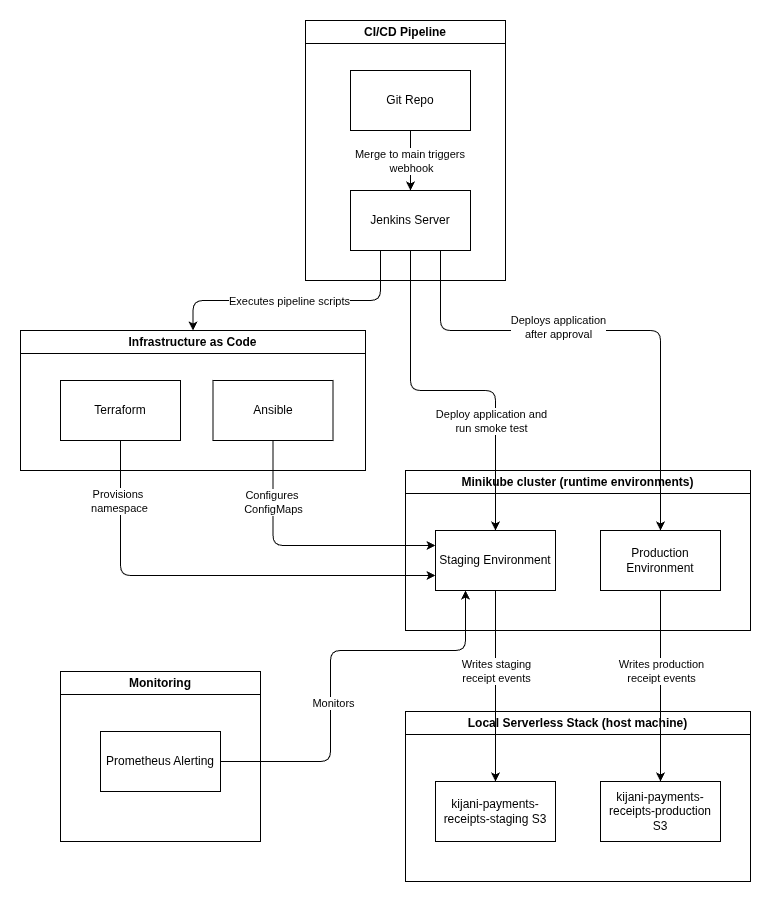
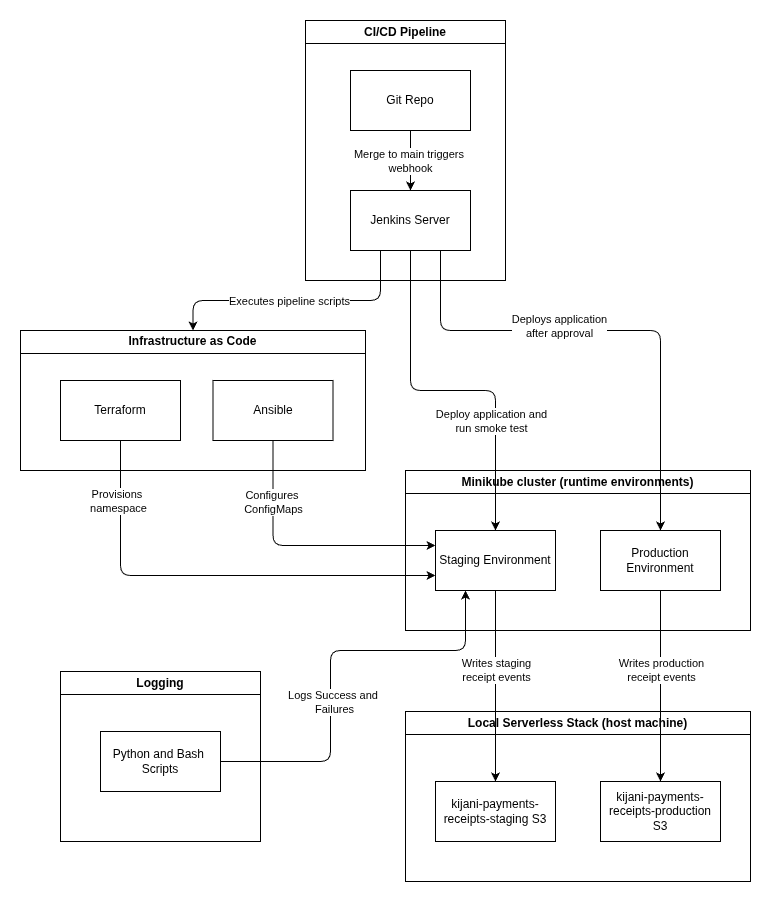
docs: updated scope, architecture, test-plan, README according to feedback

diff --git a/kijani-capstone/docs/scope.md b/kijani-capstone/docs/scope.md
@@ -1,26 +1,32 @@
-# Capstone Scope Doument
+# Capstone Scope Document
 
 ## Problem Statement
-The `kk-payments` microservice currently deploys to a single default namespace on a local minikube cluster. There is not isolated staging environment, meaning that code changes cannot be safely validated against production-like environment before release. When a bad image tag is pushed, it deploys directly to the primary environment, and rollback requires manual intervention.
+The `kk-payments` microservice runs on a local Minikube cluster. Without a staging environment, changes are harder to validate before production deployment. This capstone separates staging from production using Kubernetes namespaces and a Jenkins pipeline, and adds a staging health check, approval gate, rollback attempt on staging failure, and log-based receipt error-rate report.
 
 ## Track
 Track A (Infrastructure first)
 
 ## What I will build
-- Terraform configuration to provision an isolated `kijani-staging` kubernetes namespace.
-- Ansible playbook to configure environment specific ConfigMaps (`like DB_Host`)to separate code and configuration.
-- Jenkins CI/CD pipeline to automate a staging deployment on a merge to `main`, run a smoke test against the health endpoint, and pause at a production approval gate.
-- Prometheus alert rule configured to fire when the `kk-payments` error rate exceeds 5% for 2 minutes.
-- Integration connecting the `kk-payments` staging deployment to the `kk-payments-receipts-staging` S3 bucket to trigger the serverless receipt chain.
+- Terraform configuration to provision the `kijani-staging` Kubernetes namespace.
+- Ansible playbooks and environment variables to configure staging and production ConfigMaps and Secrets.
+- A Jenkins Pipeline job that reads `kijani-capstone/Jenkinsfile`, deploys changes to staging, and runs a health-check smoke test.
+- A production approval gate so production deployment only proceeds after staging checks pass and an administrator approves.
+- Jenkins failure handling that attempts to roll back a failed staging deployment or smoke test when a previous Deployment revision exists.
+- Structured request logs and a script that reports the staging receipt HTTP 5xx rate over the last two minutes against the Week 7 target of fewer than 0.1%.
+- A staging-only synthetic traffic endpoint and helper script to exercise and verify request logging.
+- Integration between the staging `kk-payments` deployment and a local Serverless/S3 simulator for receipt processing.
 
 ## What Is Out Of Scope
-- Multi cluster kubernetes architecture (excluded because both staging and production will run on the same local minikube cluster to conserve system resources).
-- Application code feature development (excluded because the focus is strictly on extending the infrastructure delivery pipeline).
+- Multi-cluster Kubernetes architecture; staging and production use namespaces on one local Minikube cluster.
+- Prometheus alerting and continuous alert notifications; monitoring is currently a manually run, two-minute log report, not a rolling 30-day SLO calculation.
+- Production AWS S3/Lambda infrastructure; the receipt chain uses local simulators.
+- Production-grade secret management, durable centralized log storage, and external alert delivery.
 
 ## Success Criteria
-1. A push to main triggers staging deployment automatically.
-2. The production gate requires explicit approval and shows the staging health check result.
-3. A deliberately introduced bad image triggers an automated rollback in staging before reaching prodcution.
+1. A reviewer can manually start the Jenkins job and observe IaC checks, staging configuration, deployment, and the health smoke test.
+2. The pipeline waits for explicit administrator approval before deploying to production.
+3. If staging deployment or its smoke test fails after a prior successful Deployment exists, Jenkins attempts to roll back and the pipeline does not proceed to production.
+4. A staging receipt request is processed by the local Serverless/S3 simulator, and the log report summarizes the receipt 5xx rate when receipt request logs are available.
 
 ## Architecture Diagram
 ![Architecture Diagram](architecture.png)

diff --git a/kijani-capstone/docs/test-plan.md b/kijani-capstone/docs/test-plan.md
@@ -4,14 +4,48 @@ This plan describes checks for the current Minikube, Jenkins, local Serverless,
 and log-based monitoring setup. Run destructive or production deployment tests
 only when explicitly intended.
 
+## Reviewer run-through
+
+1. **Fresh setup:** From a fresh clone, follow the [capstone README](../README.md)
+   setup instructions, then continue with the checks below. Note any step that
+   needs undocumented help.
+2. **Happy path:** Open the `kijani-capstone-main` job in Jenkins and select
+   **Build Now**. Observe staging deployment and the approval gate; approve
+   production only in the local test environment. Verify health and receipt
+   handling in Tests 1 and 2.
+3. **Failure and recovery (staging only):** Stop the local Serverless process
+   with `Ctrl-C`, then repeat the receipt request in Test 2 with a new order ID.
+   Expect HTTP 502 with `Receipt service is unavailable` and an upstream error
+   in the app logs. Restart the Serverless command from Test 2, retry with a
+   fresh order ID, and confirm receipt handling recovers.
+4. **AI governance:** Read the [AI governance log](ai-governance-log.md) and
+   comment on whether its human review steps are specific and credible.
+
 ## Prerequisites
 
 - Minikube is running with ingress enabled.
 - `kubectl` is using the intended Minikube context.
-- The `kijani-staging` namespace and staging app configuration exist.
+- Terraform and Ansible are installed, and Ansible has the `kubernetes.core`
+  collection (see the capstone README prerequisites).
+- From the repository root, create the staging namespace and app configuration:
+
+  ```bash
+  cd kijani-capstone/terraform
+  terraform init
+  terraform apply
+
+  cd ../ansible
+  ansible-playbook -i inventory/hosts.ini playbook.yml -e @vars/staging.yml
+  ```
+
+- Map the staging hostname to Minikube's IP (run on the Minikube host):
+
+  ```bash
+  echo "$(minikube ip) staging.kijani.local" | sudo tee -a /etc/hosts
+  ```
+
 - The staging app is running the updated image with structured request logs
   and the staging-only `/simulate-traffic` route.
-- Host DNS maps `staging.kijani.local` to the Minikube IP.
 
 ## 1. Staging deployment and health check
 
@@ -59,13 +93,19 @@ only when explicitly intended.
      -d '{"orderId":"TEST-RECEIPT-001","amount":100,"currency":"KES"}'
    ```
 
+3. Inspect the receipts bucket in the local S3 simulator (requires AWS CLI):
+
+   ```bash
+   aws --endpoint-url=http://localhost:4569 s3 ls s3://kk-payments-receipts-staging/
+   ```
+
 **Expected result**
 
 - The app returns a successful response when the local receipt service is
   available.
 - The Serverless logs show receipt generation followed by processor and
   notifier activity.
-- Test objects are written to the staging local S3 simulator. Use unique
+- The receipts bucket listing includes the generated test object. Use unique
   order IDs when repeating the test.
 
 **Tester Feedback:** [Pass/Fail - Comments]
@@ -106,7 +146,6 @@ From `kijani-capstone/`, run:
 
 - The report counts non-synthetic `/receipts` HTTP 5xx responses from staging
   pod logs in the last two minutes.
-- It compares the observed rate with the Week 7 target of fewer than 0.1%.
 - It writes the summary to `monitoring/error-rate-summary.txt`, or reports
   `NO DATA` if there were no receipt requests in the time window.
 
@@ -124,6 +163,10 @@ From `kijani-capstone/`, run:
 
 | Test | Result | Notes |
 |---|---|---|
+| Fresh setup from README | [Pass/Fail] | |
+| Pipeline and production happy path | [Pass/Fail] | |
+| Staging failure and recovery | [Pass/Fail] | |
+| AI governance review | [Pass/Fail] | |
 | Staging deployment and health check | [Pass/Fail] | |
 | Serverless receipt flow | [Pass/Fail] | |
 | Synthetic request logging | [Pass/Fail] | |
